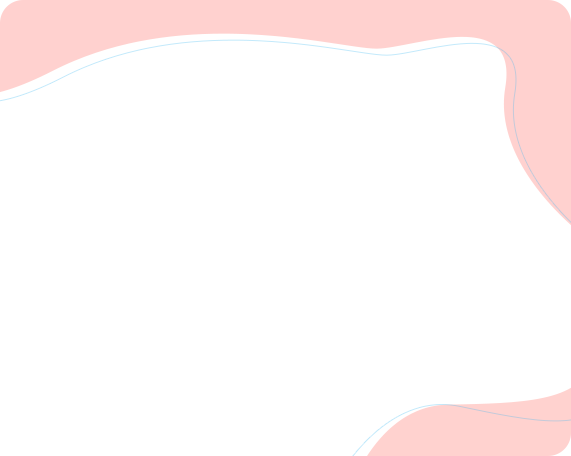
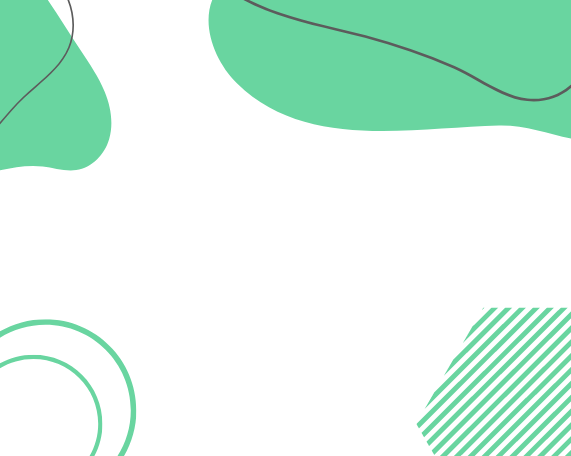
br

diff --git a/templatemo_565_onix_digital/assets/css/templatemo-onix-digital.css b/templatemo_565_onix_digital/assets/css/templatemo-onix-digital.css
@@ -193,7 +193,7 @@ body {
 }
 
 .section-heading h2 span {
-  color: #ff695f;
+  color: green;
   font-weight: 700;
   opacity: 1;
   text-transform: capitalize;
@@ -203,7 +203,7 @@ body {
   font-size: 30px;
   text-transform: uppercase;
   font-weight: 700;
-  color: #ff695f;
+  color: green;
   opacity: 0.15;
 }
 
@@ -233,12 +233,12 @@ body {
 }
 
 .main-blue-button-hover a:hover {
-  background-color: #ff695f;
+  background-color: rgb(51, 197, 51);
 }
 
 .main-red-button a {
   display: inline-block;
-  background-color: #ff695f;
+  background-color: green;
   font-size: 15px;
   font-weight: 400;
   color: #fff;
@@ -250,7 +250,7 @@ body {
 
 .main-red-button-hover a {
   display: inline-block;
-  background-color: #ff695f;
+  background-color: green;
   font-size: 15px;
   font-weight: 400;
   color: #fff;
@@ -270,7 +270,7 @@ body {
   background-color: #fff;
   font-size: 15px;
   font-weight: 400;
-  color: #ff695f;
+  color: rgb(76, 192, 76);
   text-transform: capitalize;
   padding: 12px 25px;
   border-radius: 23px;
@@ -299,11 +299,11 @@ header
 }
 
 .background-header .main-nav .nav li:hover a {
-  color: #ff685f!important;
+  color: rgb(76, 192, 76)!important;
 }
 
 .background-header .nav li a.active {
-  color: #ff685f!important;
+  color: rgb(76, 192, 76)!important;
 }
 
 .header-area {
@@ -409,12 +409,12 @@ header
 
 .header-area .main-nav .nav li:hover a,
 .header-area .main-nav .nav li a.active {
-  color: #ff685f!important;
+  color: rgb(76, 192, 76)!important;
 }
 
 .background-header .main-nav .nav li:hover a,
 .background-header .main-nav .nav li a.active {
-  color: #ff685f!important;
+  color: rgb(76, 192, 76)!important;
   opacity: 1;
 }
 
@@ -476,7 +476,7 @@ header
 
 .header-area .main-nav .nav li.submenu ul li a:hover {
   background: #fff;
-  color: #ff685f!important;
+  color: green!important;
   padding-left: 25px;
 }
 
@@ -710,7 +710,7 @@ header
   }
   .header-area .main-nav .nav li a:hover {
     background: #eee !important;
-    color: #ff685f!important;
+    color: green!important;
   }
   .header-area .main-nav .nav li.submenu ul {
     position: relative;
@@ -824,7 +824,7 @@ preloader
     height: 16px;
     top: 12px;
     left: 15px;
-    background: #ff695f;
+    background: rgb(76, 192, 76);
     border-radius: 50%;
     -webkit-transform: translateX(0);
     transform: translateX(0);
@@ -847,7 +847,7 @@ preloader
     width: 16px;
     height: 16px;
     margin-left: 16px;
-    background: #ff695f;
+    background: rgb(76, 192, 76);
     border-radius: 50%;
 }
 
@@ -898,7 +898,7 @@ Banner Style
 .main-banner .item h6 {
   text-transform: uppercase;
   font-size: 18px;
-  color: #ff695f;
+  color: green;
   margin-bottom: 15px;
 }
 
@@ -915,7 +915,7 @@ Banner Style
 }
 
 .main-banner .item h2 span {
-  color: #ff695f;
+  color: green;
 }
 
 .main-banner .item p {
@@ -934,14 +934,14 @@ Banner Style
   text-align: center;
   line-height: 46px;
   border-radius: 50%;
-  background: rgb(255,104,95);
+  background: rgb(76, 192, 76);
   background: linear-gradient(105deg, rgba(255,104,95,1) 0%, rgba(255,144,104,1) 100%);
   color: #fff;
   font-size: 20px;
 }
 
 .main-banner .item .down-buttons .call-button a {
-  color: #ff695f;
+  color: rgb(76, 192, 76);
   font-size: 15px;
   font-weight: 500;
   margin-left: 30px;
@@ -967,8 +967,8 @@ Banner Style
 }
 
 .main-banner .active:before {
-  color: #ff685f;
-  border-bottom: 3px solid #ff685f;
+  color: green;
+  border-bottom: 3px solid green;
 }
 
 
@@ -1052,7 +1052,7 @@ Services Style
 .our-services .owl-dots .owl-dot {
   width: 6px;
   height: 6px;
-  background-color: #ff695f;
+  background-color: green;
   border-radius: 50%;
   opacity: 0.3;
   margin: 0px 5px;
@@ -1106,7 +1106,7 @@ About
 
 .about-us .fact-item .count-title {
   font-size: 15px;
-  color: #ff695f;
+  color: green;
 }
 
 .about-us .fact-item p {
@@ -1229,7 +1229,7 @@ Portfolio
 .owl-portfolio .owl-nav .owl-prev span:after {
   width: 46px;
   height: 46px;
-  background-color: #ff695f;
+  background-color: rgb(76, 192, 76);
   display: inline-block;
   text-align: center;
   line-height: 46px;
@@ -1253,7 +1253,7 @@ Portfolio
 .owl-portfolio .owl-nav .owl-next span:after {
   width: 46px;
   height: 46px;
-  background-color: #ff695f;
+  background-color: green;
   display: inline-block;
   text-align: center;
   line-height: 46px;
@@ -1273,7 +1273,7 @@ Portfolio
 .owl-portfolio .owl-dots .owl-dot {
   width: 6px;
   height: 6px;
-  background-color: #ff695f;
+  background-color: green;
   border-radius: 50%;
   opacity: 0.3;
   margin: 0px 5px;
@@ -1347,7 +1347,7 @@ Pricing
 }
 
 .pricing-tables .item em {
-  color: #ff695f;
+  color: rgb(76, 192, 76);
   font-size: 15px;
   display: block;
   margin-top: 25px;
@@ -1357,7 +1357,7 @@ Pricing
 
 .pricing-tables .item span {
   font-size: 44px;
-  color: #ff695f;
+  color: rgb(76, 192, 76);
   font-weight: 700;
   display: block;
   margin-top: -5px;
@@ -1477,7 +1477,7 @@ Subscribe
 }
 
 .subscribe .inner-content form button:hover {
-  background-color: #ff695f;
+  background-color: green;
 }
 
 
@@ -1586,8 +1586,8 @@ Video
 }
 
 .our-videos .nacc .thumb .overlay-effect {
-  background: rgb(255,104,95);
-  background: linear-gradient(105deg, rgba(255,104,95,1) 0%, rgba(255,144,104,1) 100%);
+  background: rgb(76, 192, 76);
+  background: linear-gradient(105deg, rgb(76, 192, 76) 0%, rgb(171, 248, 171) 100%);
   display: inline-block;
   position: absolute;
   left: 0;
@@ -1616,8 +1616,8 @@ Video
 }
 
 .our-videos .menu .thumb .inner-content {
-  background: rgb(255,104,95);
-  background: linear-gradient(105deg, rgba(255,104,95,1) 0%, rgba(255,144,104,1) 100%);
+  background: rgb(76, 192, 76);
+  background: linear-gradient(105deg, rgb(76, 192, 76) 0%, rgb(154, 232, 154) 100%);
   border-top-left-radius: 23px;
   border-bottom-right-radius: 23px;
   position: absolute;
@@ -1705,8 +1705,8 @@ contact
   display: inline-block;
   text-align: center;
   line-height: 46px;
-  background: rgb(255,104,95);
-  background: linear-gradient(105deg, rgba(255,104,95,1) 0%, rgba(255,144,104,1) 100%);
+  background: rgb(76, 192, 76);
+  background: linear-gradient(105deg, green 0%, rgb(76, 192, 76) 100%);
   border-radius: 50%;
   color: #fff;
   font-size: 22px;
@@ -1715,7 +1715,7 @@ contact
 }
 
 .contact-us .info span a {
-  color: #ff685f;
+  color: green;
   font-size: 14px;
   font-weight: 400;
   line-height: 25px;
@@ -1758,7 +1758,7 @@ form#contact input::placeholder {
 
 form#contact button {
   display: inline-block;
-  background-color: #ff695f;
+  background-color: green;
   font-size: 15px;
   font-weight: 400;
   color: #fff;
@@ -1832,7 +1832,7 @@ footer .about ul li a {
 }
 
 footer .about ul li a:hover {
-  background-color: #ff695f;
+  background-color: rgb(76, 192, 76);
 }
 
 footer .footer-item ul li {
@@ -1851,7 +1851,7 @@ footer .footer-item ul li a {
 }
 
 footer .footer-item ul li a:hover {
-  color: #ff695f;
+  color: rgb(76, 192, 76);
 }
 
 footer .footer-item p {
@@ -1901,7 +1901,7 @@ footer .copyright p {
 }
 
 footer .copyright p a {
-  color: #ff695f;
+  color: rgb(76, 192, 76);
 }
 
 /* 
@@ -2006,7 +2006,7 @@ responsive
   }
   .subscribe .inner-content form button {
     width: 100%;
-    background-color: #ff695f;
+    background-color: green;
     margin-top: 30px;
   }
   .our-videos ul.nacc li {

diff --git a/templatemo_565_onix_digital/index.html b/templatemo_565_onix_digital/index.html
@@ -16,7 +16,7 @@
     <!-- Bootstrap core CSS -->
     <link href="vendor/bootstrap/css/bootstrap.min.css" rel="stylesheet">
 
-
+    <script src="assets/js/contactus.js"></script>
     <!-- Additional CSS Files -->
     <link rel="stylesheet" href="assets/css/fontawesome.css">
     <link rel="stylesheet" href="assets/css/templatemo-onix-digital.css">
@@ -663,12 +663,15 @@ https://templatemo.com/tm-565-onix-digital
               </div>
               <div class="col-lg-12">
                 <fieldset>
-                  <input type="text" name="website" id="website" placeholder="Your Website URL" required="">
+                  <input type="text" name="comment" id="website" placeholder="Message" required="">
                 </fieldset>
               </div>
               <div class="col-lg-12">
                 <fieldset>
-                  <button type="submit" id="form-submit" class="main-button">Submit Request</button>
+                  <button type="submit" id="form-submit" class="main-button" onclick="sendMail()">Submit Request</button>
+                  <script type="text/javascript">
+                    emailjs.init('yX5AWYGq8FbVcW7pH')
+                  </script>
                 </fieldset>
               </div>
             </div>
@@ -756,6 +759,7 @@ https://templatemo.com/tm-565-onix-digital
   <script src="assets/js/animation.js"></script>
   <script src="assets/js/imagesloaded.js"></script>
   <script src="assets/js/custom.js"></script>
+  
 
   <script>
   // Acc

diff --git a/templatemo_565_onix_digital/assets/js/contactus.js b/templatemo_565_onix_digital/assets/js/contactus.js
@@ -1,0 +1,14 @@
+  function sendMail() {
+    var params = {
+      name: document.getElementById("name").value,
+      surname: document.getElementById("surname").value,
+      email: document.getElementById("email").value,
+      message: document.getElementById("comment").value,
+    };
+  
+    emailjs
+      .send("service_bl7gn5d","template_egg1j46",params)
+      .then(function (res) {
+        alert("Message Sent Successfully !");
+      });
+  }
